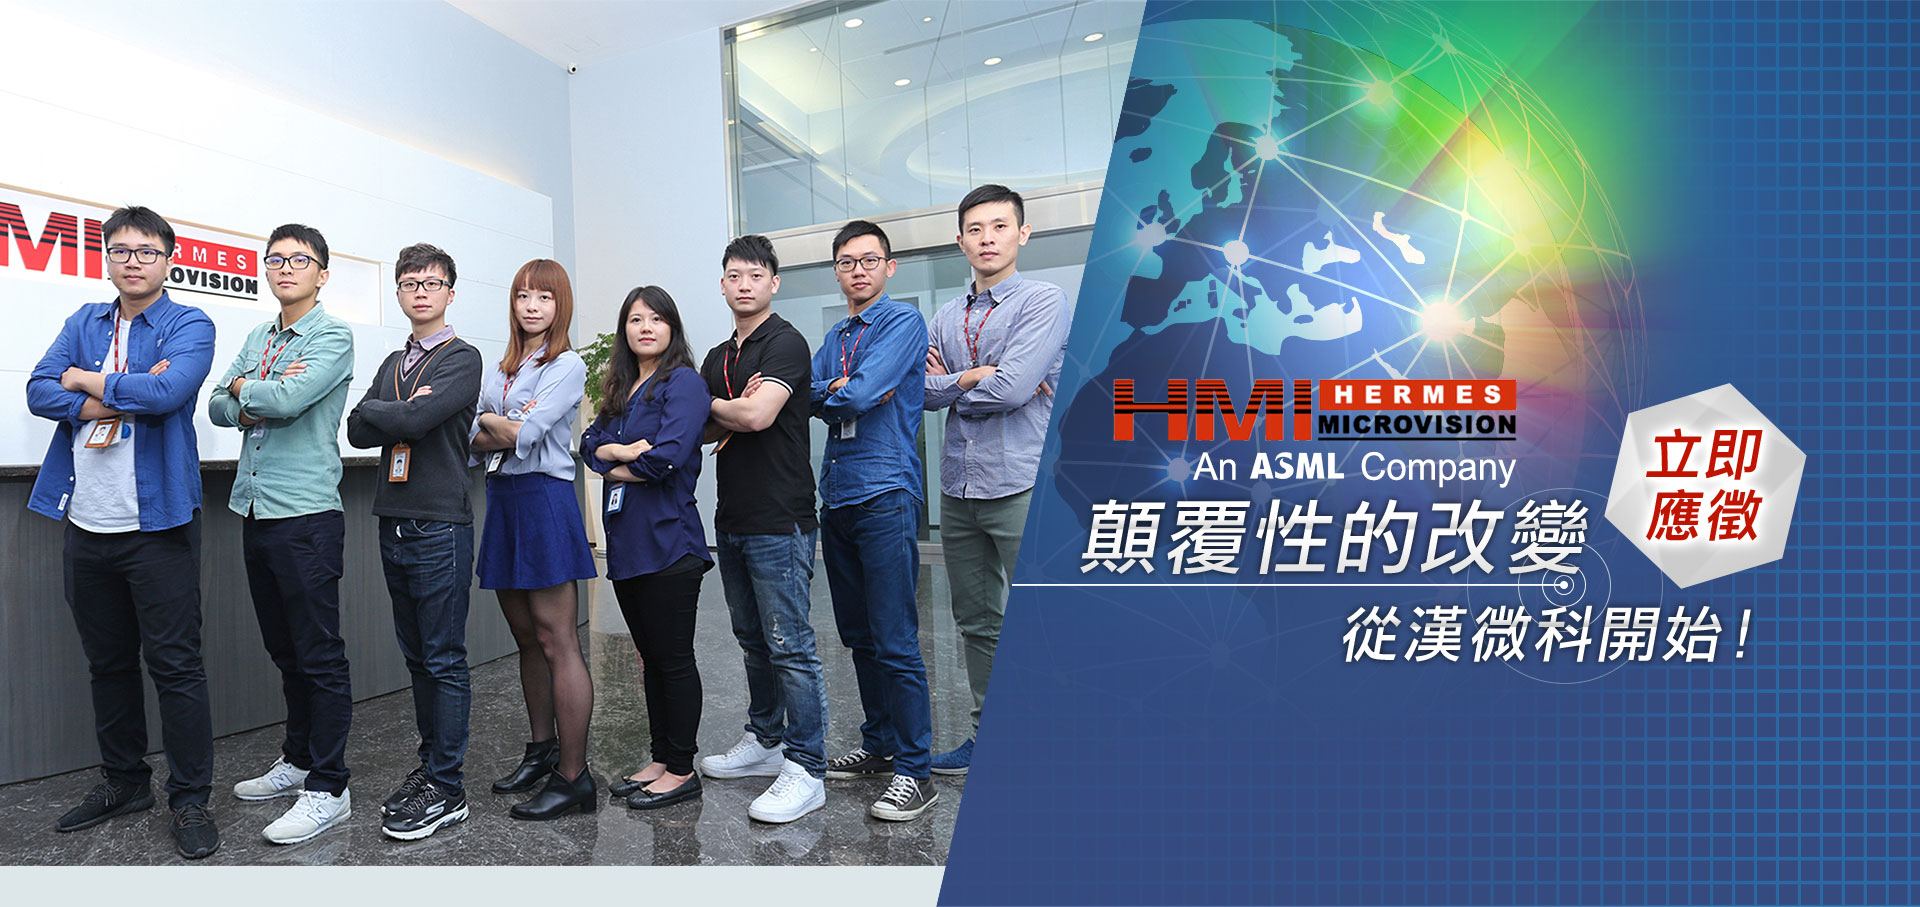
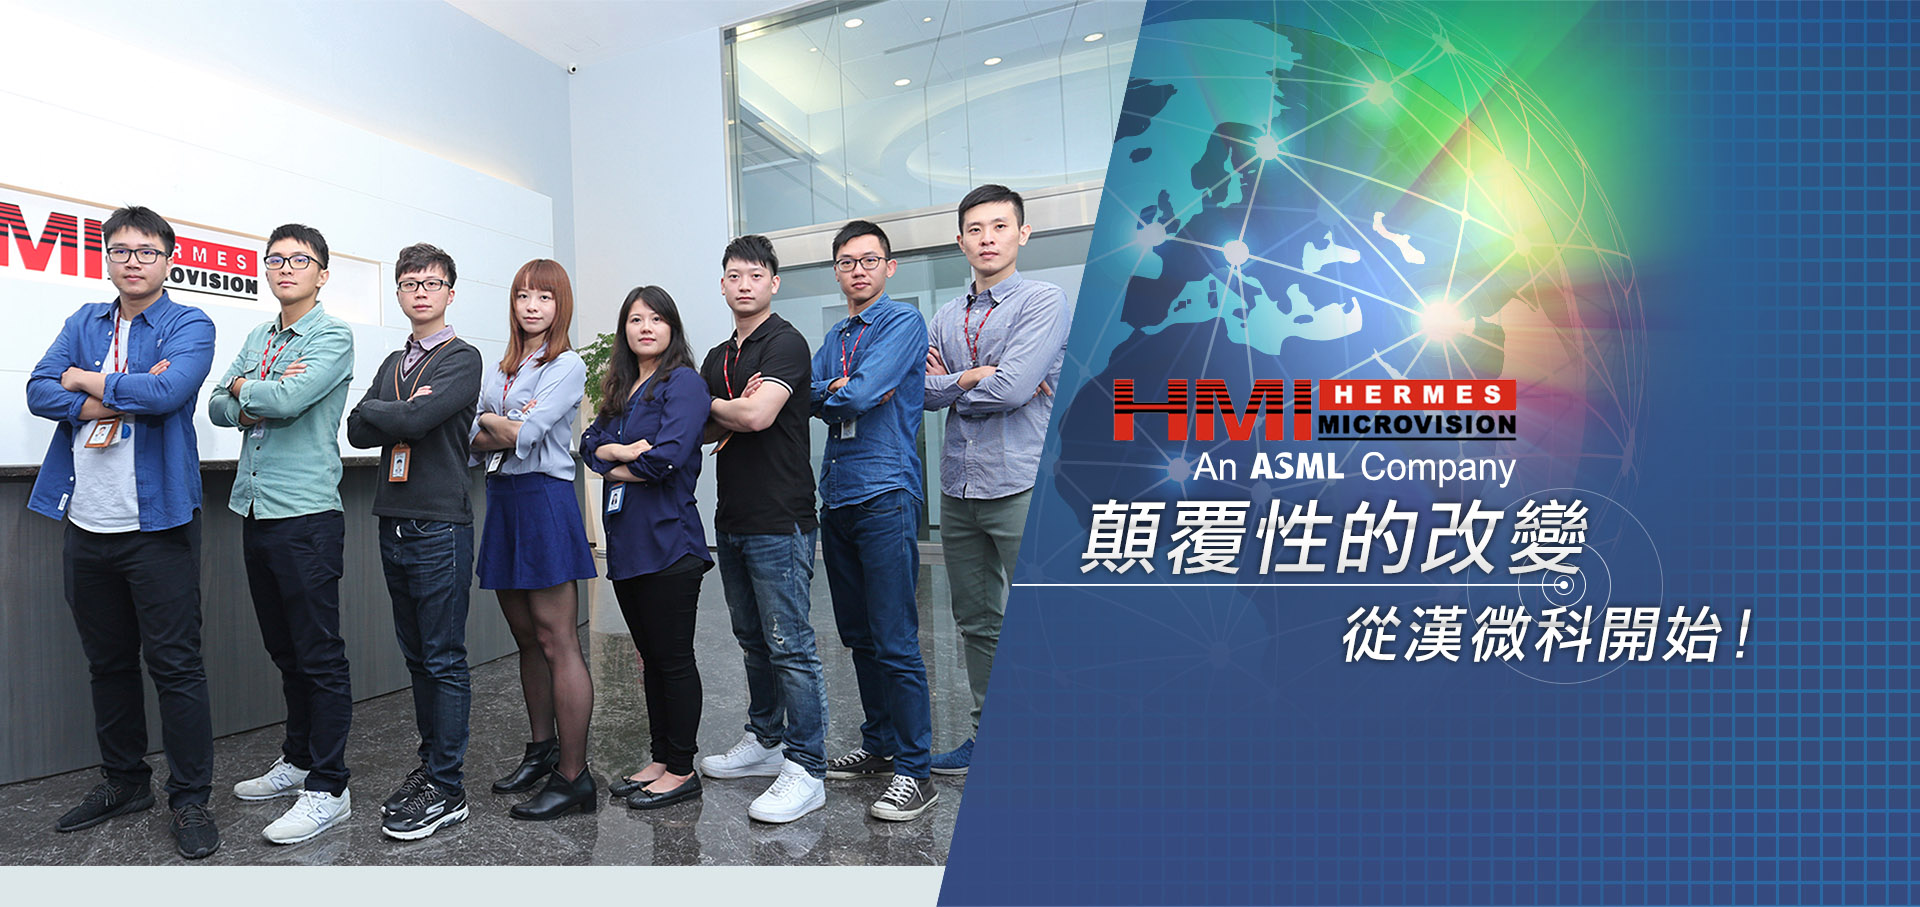
180417-1

Changed region(s): [[0.8125, 0.4013, 0.9375, 0.6483], [0.7188, 0.0617, 0.8438, 0.3087]]

diff --git a/index.html b/index.html
@@ -5,7 +5,7 @@
         <meta name="viewport" content="width=device-width, initial-scale=1">
         <link rel="stylesheet" href="css/bootstrap.css">
         <link rel="stylesheet" href="css/custom.css">
-        <title>漢民微測科技招募計畫</title>
+        <title>微觀世界，科技之眼</title>
         <!--[if lte IE 9]>
           <link href="css/animations-ie-fix.css" rel="stylesheet">
         <![endif]-->
@@ -120,11 +120,20 @@
                 <div class="container">
                     <div class="row">
                         <div class="col-7 ml-auto">
+<!--                            <div class="kv-title" data-aos="fade-up" data-aos-duration="800">-->
+                            <div class="kv-title">
+                                <div class="animate-delay">
+                                    <img class="img-fluid animate-fade" src="images/desktop/kv-title-glow.png" alt="微觀世界 科技之眼">
+                                </div>
+                            </div>
+<!--
                             <div class="">
                                 <img class="img-fluid" data-aos="fade-up-right" data-aos-duration="800" src="images/desktop/kv-title.png" alt="微觀世界 科技之眼">
                             </div>
+-->
                             <div class="slogan pl-8">
-                                <img class="img-fluid" data-aos="fade-left" data-aos-duration="800" src="images/desktop/slogan.png" alt="">
+<!--                                <img class="img-fluid" data-aos="fade-left" data-aos-duration="800" src="images/desktop/slogan.png" alt="">-->
+                                <img class="img-fluid" src="images/desktop/slogan.png" alt="">
                             </div>
                         </div>
                     </div>
@@ -452,7 +461,7 @@
                 </ol>
             </div>
             <div class="d-flex mt-10">
-                <a href="https://www.104.com.tw/job/?jobno=55c70" class="btn btn-primary btn-rounded py-3 js-monitor-params" target="_blank">立即<br>應徵</a>
+                <a href="https://www.104.com.tw/job/?jobno=557c0" class="btn btn-primary btn-rounded py-3 js-monitor-params" target="_blank">立即<br>應徵</a>
             </div>
         </div>
     </div>
@@ -819,8 +828,8 @@
             <div class="container py-3">
                 <span style="font:12px Arial;color:#333;letter-spacing:1px;line-height:22px;">上述內容由 漢民微測科技股份有限公司 提供，104整合招募服務處代為維護管理<br />
                 以上所提及之各公司與產品均分屬各相關公司與個別擁有者之商標<br />
-                意見反應：02-29126104#8777 <a href="http://www.104.com.tw/cfdocs/question_admin/user/reaction.cfm" target="_blank"><img src="http://www.104.com.tw/cfdocs/edm/mutual_img/edm_mail_im_01.gif" border="0" align="absmiddle"/></a><br />
-                本網站內容享有著作權，禁止侵害，違者必究。&copy; 2001-2016 104 Corporation All Rights Reserved </span>
+                意見反應：02-29126104#8163 <a href="http://www.104.com.tw/cfdocs/question_admin/user/reaction.cfm" target="_blank"><img src="http://www.104.com.tw/cfdocs/edm/mutual_img/edm_mail_im_01.gif" border="0" align="absmiddle"/></a><br />
+                本網站內容享有著作權，禁止侵害，違者必究。&copy; 2001-2018 104 Corporation All Rights Reserved </span>
             </div>
         </div>
         <script src="js/vendor/jquery-3.3.1.min.js"></script>

diff --git a/css/custom.css b/css/custom.css
@@ -144,15 +144,25 @@ hr {
   background: url(../images/desktop//s2-bg.jpg) center 0 no-repeat;
   background-size: cover; }
 
+@keyframes aniDelay {
+  0% {
+    opacity: 0; }
+  100% {
+    opacity: 1; } }
+.animate-delay {
+  -moz-animation: aniDelay 6s infinite ease-in-out;
+  -webkit-animation: aniDelay 6s infinite ease-in-out;
+  animation: aniDelay 6s infinite ease-in-out; }
+
 @keyframes aniFade {
   0%,100% {
     opacity: 0; }
   50% {
     opacity: 1; } }
 .animate-fade {
-  -moz-animation: aniFade 1s infinite ease-in-out;
-  -webkit-animation: aniFade 1s infinite ease-in-out;
-  animation: aniFade 1s infinite ease-in-out; }
+  -moz-animation: aniFade 3s infinite ease-in-out;
+  -webkit-animation: aniFade 3s infinite ease-in-out;
+  animation: aniFade 3s infinite ease-in-out; }
 
 .pop {
   position: fixed;
